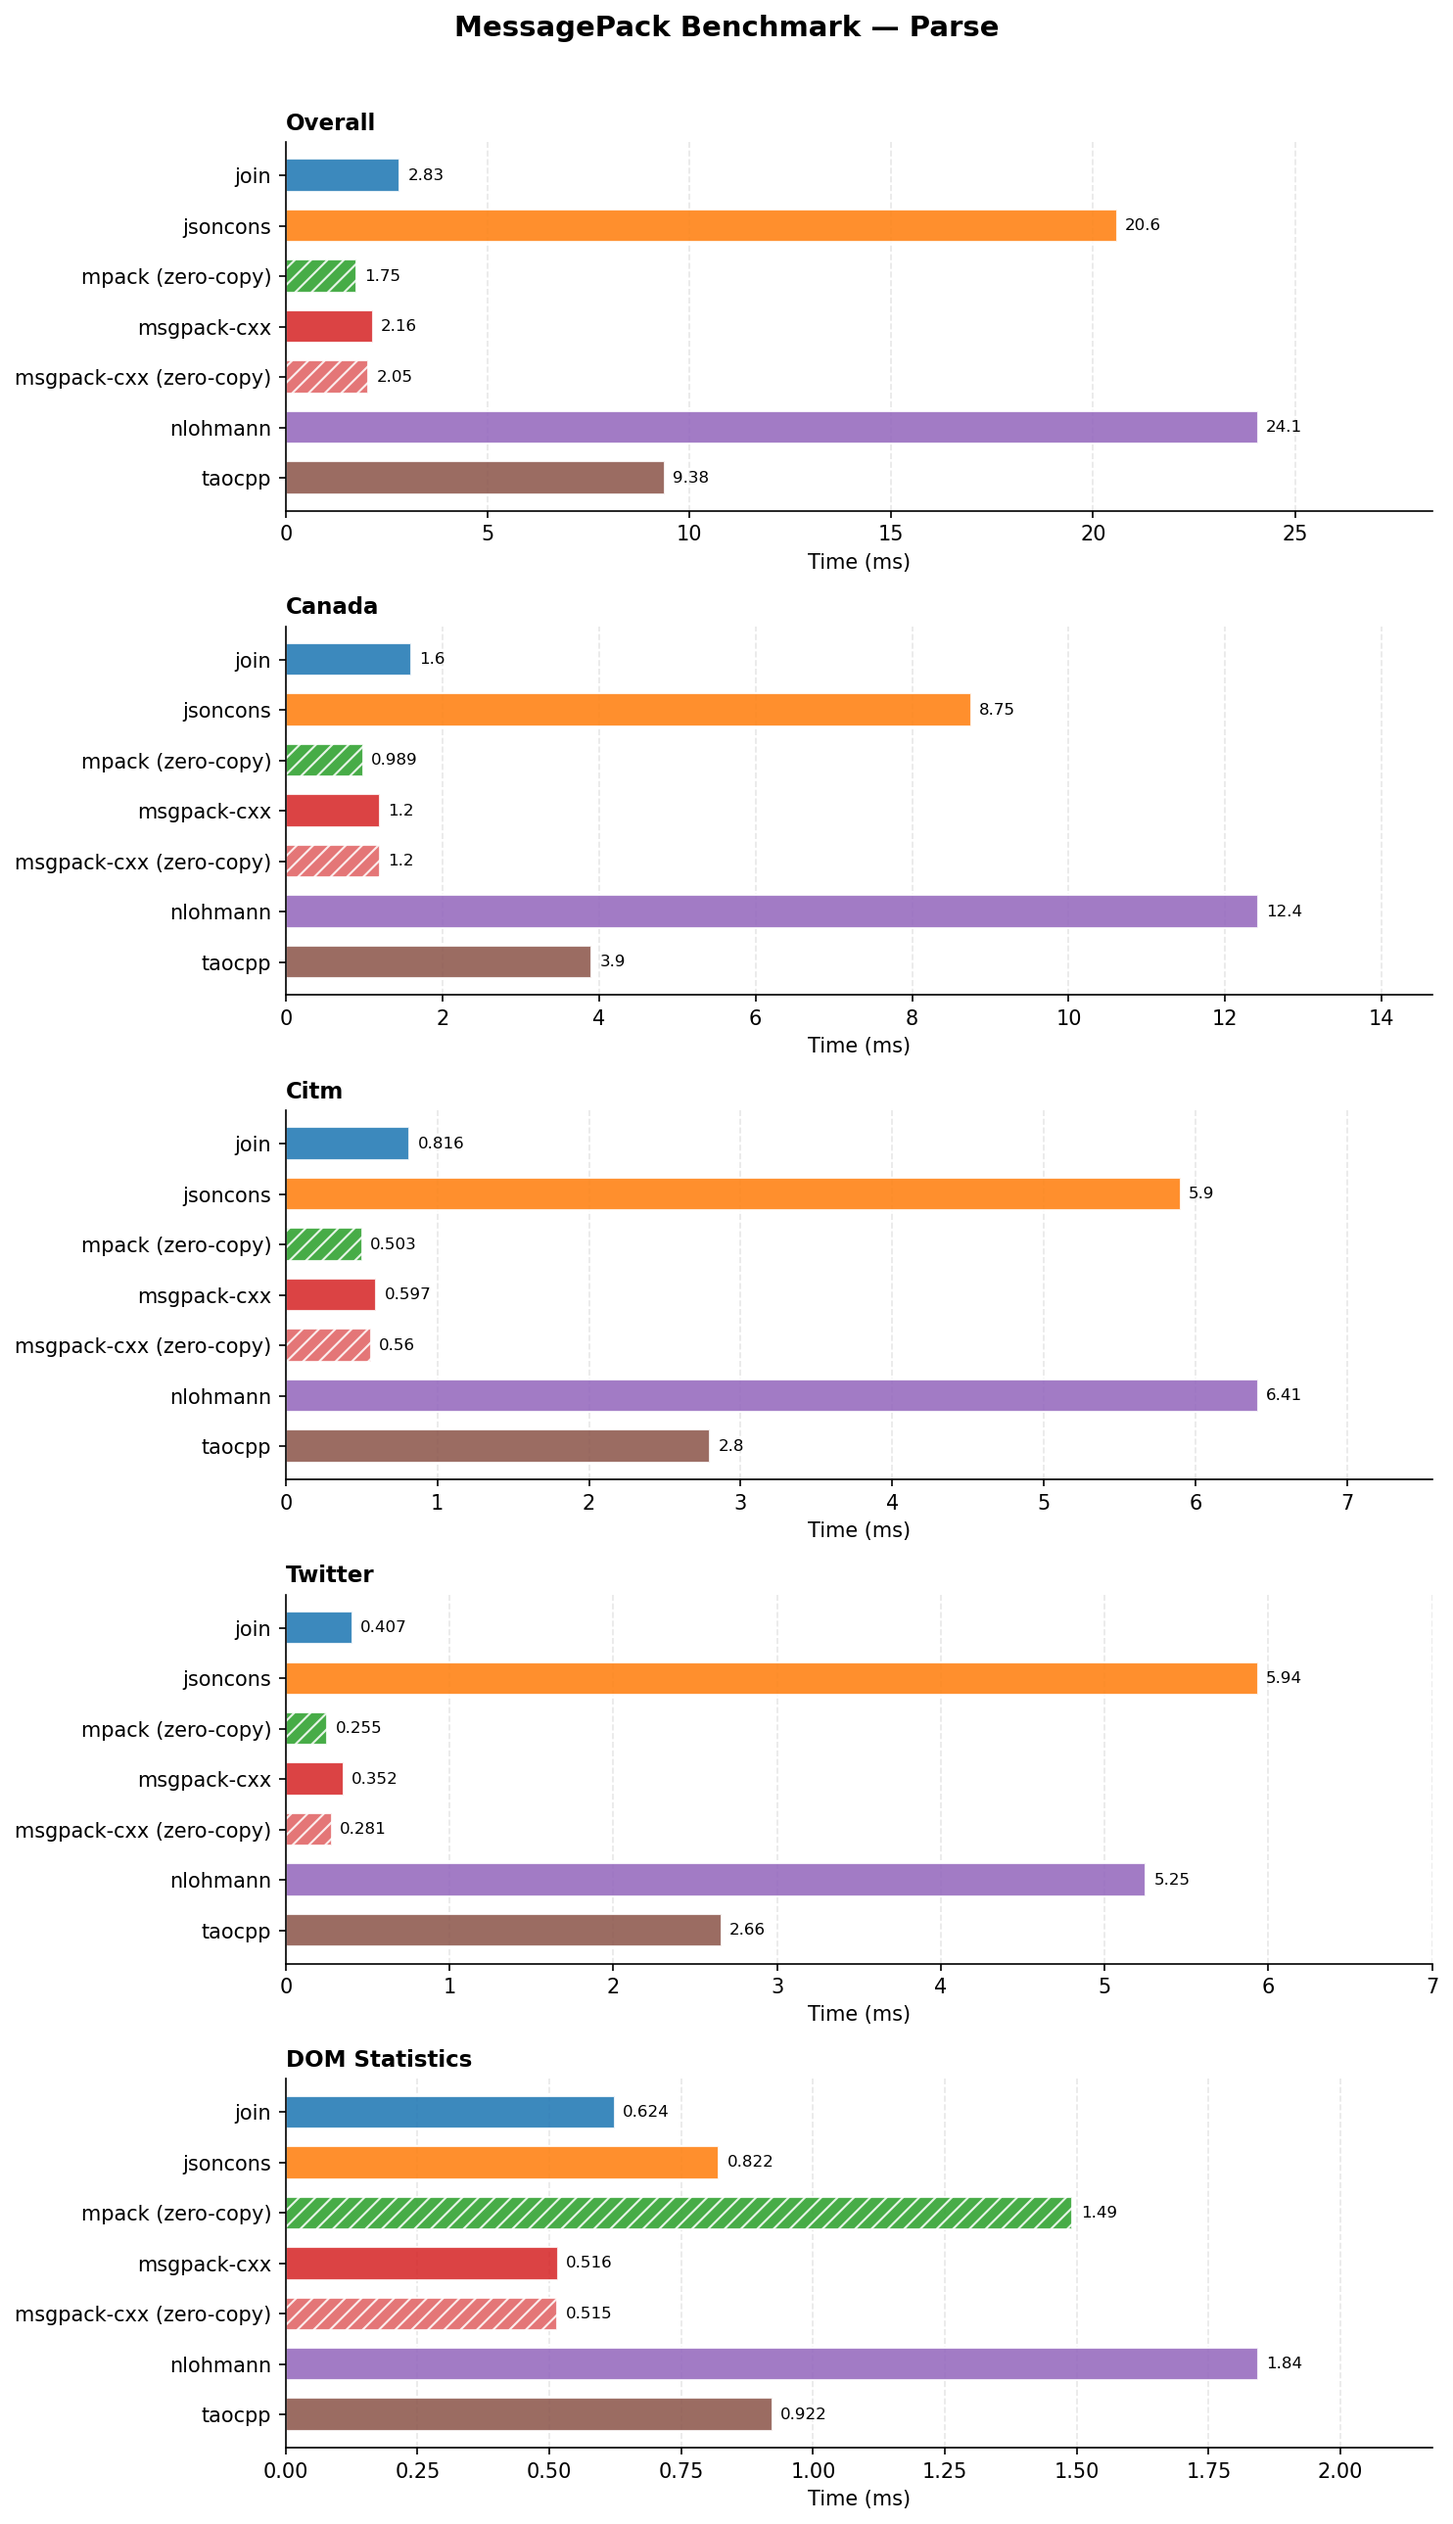
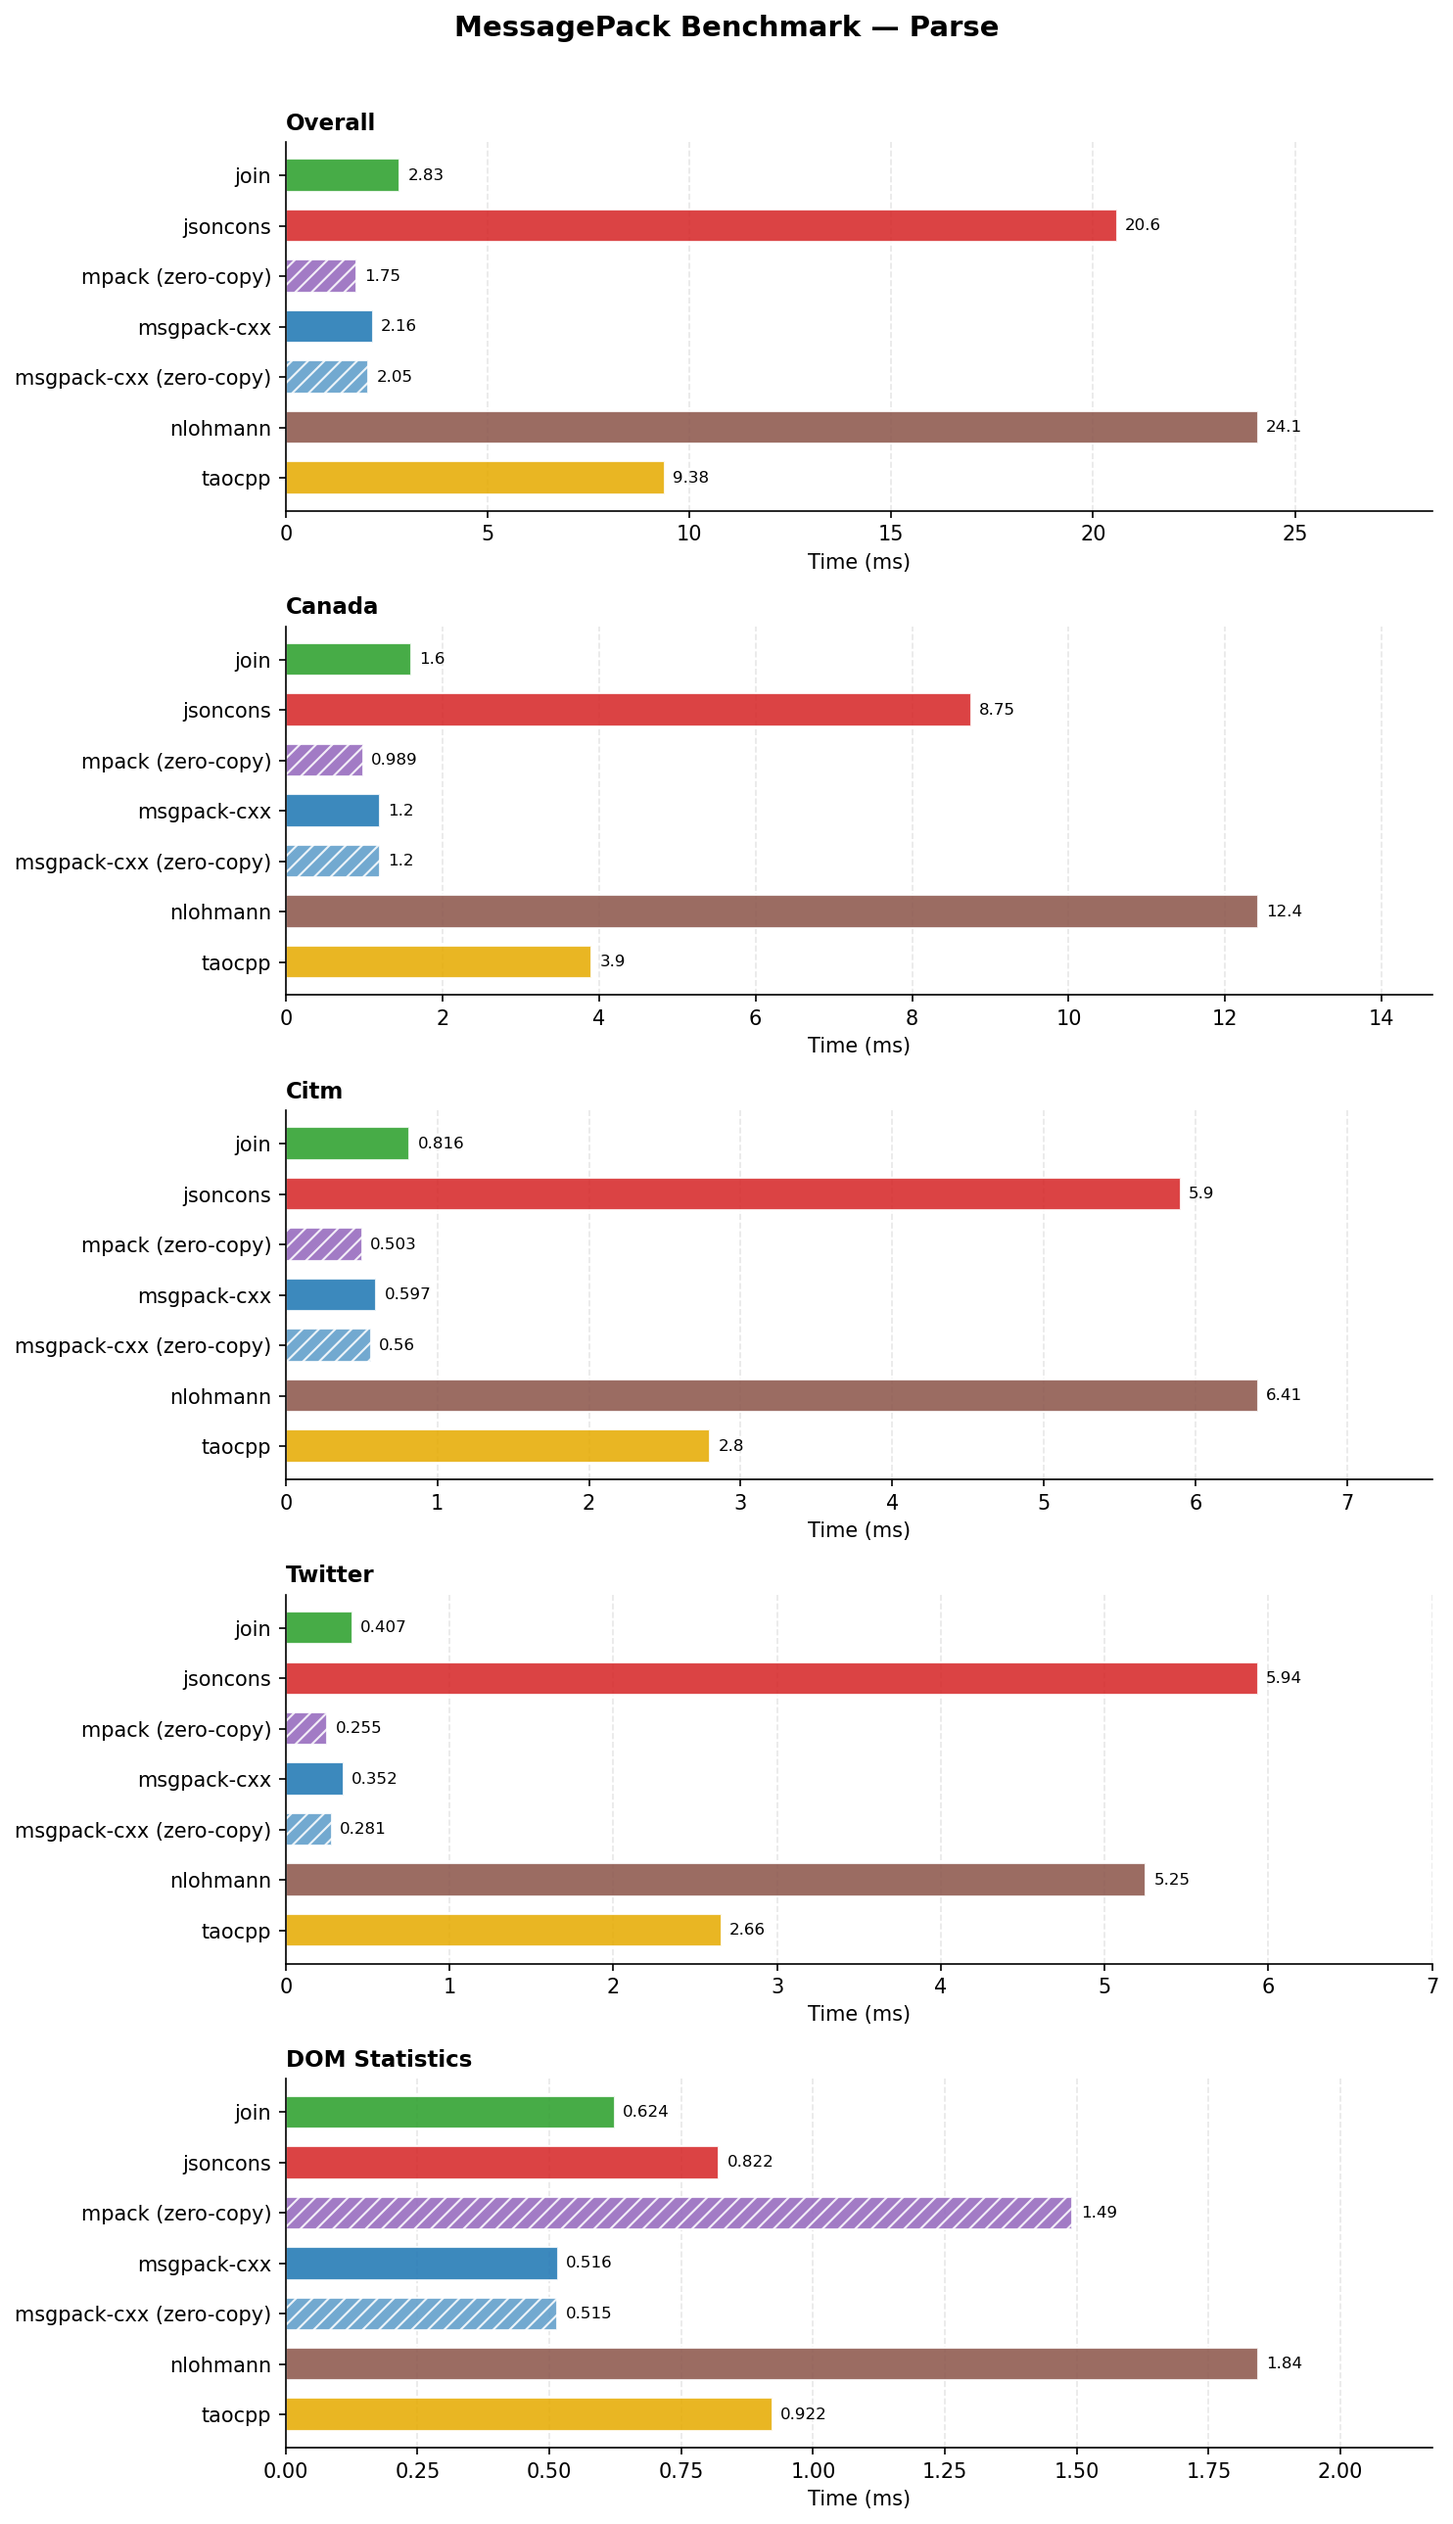
add results

diff --git a/plots/plot.py b/plots/plot.py
@@ -23,7 +23,14 @@ LIBRARY_ORDER = list(LIBRARY_LABELS.values())
 
 DATASET_ORDER = ["Canada", "Citm", "Twitter"]
 
-_PALETTE = [c for c in plt.rcParams["axes.prop_cycle"].by_key()["color"] if c != "#7f7f7f"] + ["#1b9e77", "#e6ab02", "#e7298a"]
+_FAMILY_COLORS = {
+    "join":        "#2ca02c",
+    "jsoncons":    "#d62728",
+    "mpack":       "#9467bd",
+    "msgpack-cxx": "#1f77b4",
+    "nlohmann":    "#8c564b",
+    "taocpp":      "#e6ab02",
+}
 _LIB_COLORS: dict[str, tuple] = {}
 
 ZERO_COPY_HATCH = "///"
@@ -39,11 +46,9 @@ def _set_hatches(bars, libs: list[str]) -> None:
 def _lib_color(name: str) -> tuple:
     if name not in _LIB_COLORS:
         family   = _family(name)
-        families = list(dict.fromkeys(_family(lib) for lib in LIBRARY_ORDER))
-        idx      = families.index(family) if family in families else len(families) + len(_LIB_COLORS)
         variants = sorted((lib for lib in LIBRARY_ORDER if _family(lib) == family), key=lambda lib: lib != family)
         rank     = variants.index(name) if name in variants else 0
-        r, g, b  = to_rgb(_PALETTE[idx % len(_PALETTE)])
+        r, g, b  = to_rgb(_FAMILY_COLORS.get(family, "#7f7f7f"))
         t        = 0.55 * rank / max(len(variants), 1)
         _LIB_COLORS[name] = (r + (1 - r) * t, g + (1 - g) * t, b + (1 - b) * t)
     return _LIB_COLORS[name]
